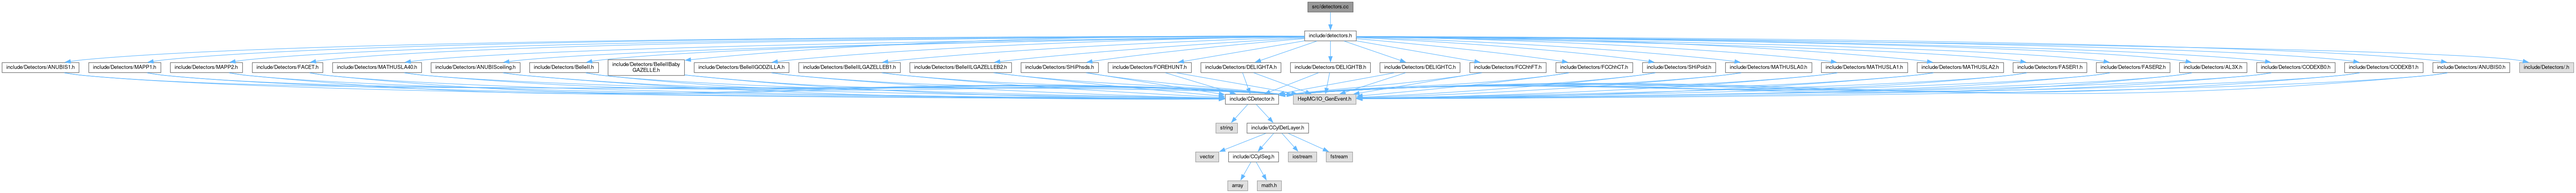
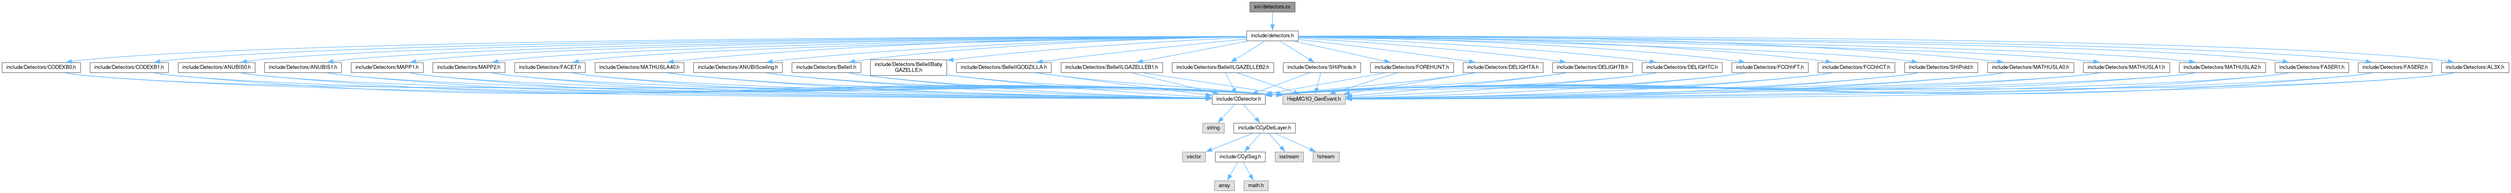
deploy: ba4ccefb03de5becfba3d83b99c959698ce254f5

diff --git a/d4/d73/detectors_8h.html b/d4/d73/detectors_8h.html
@@ -105,53 +105,51 @@ $(function() {
 <code>#include &quot;<a class="el" href="../../d4/d16/DELIGHTC_8h_source.html">include/Detectors/DELIGHTC.h</a>&quot;</code><br />
 <code>#include &quot;<a class="el" href="../../d9/dfc/FCChhFT_8h_source.html">include/Detectors/FCChhFT.h</a>&quot;</code><br />
 <code>#include &quot;<a class="el" href="../../d0/d53/FCChhCT_8h_source.html">include/Detectors/FCChhCT.h</a>&quot;</code><br />
-<code>#include &quot;include/Detectors/.h&quot;</code><br />
 <code>#include &quot;<a class="el" href="../../dd/dfa/SHiPold_8h_source.html">include/Detectors/SHiPold.h</a>&quot;</code><br />
 </div><div class="textblock"><div class="dynheader">
 Include dependency graph for detectors.h:</div>
 <div class="dyncontent">
 <div class="center"><img src="../../db/dbc/detectors_8h__incl.png" border="0" usemap="#ainclude_2detectors_8h" alt=""/></div>
 <map name="ainclude_2detectors_8h" id="ainclude_2detectors_8h">
-<area shape="rect" title=" " alt="" coords="3303,5,3433,31"/>
-<area shape="rect" href="../../d5/d5f/MATHUSLA0_8h.html" title=" " alt="" coords="4368,86,4587,111"/>
-<area shape="rect" href="../../d5/d10/MATHUSLA1_8h.html" title=" " alt="" coords="4611,86,4829,111"/>
-<area shape="rect" href="../../da/dab/MATHUSLA2_8h.html" title=" " alt="" coords="4853,86,5072,111"/>
-<area shape="rect" href="../../d7/d7a/FASER1_8h.html" title=" " alt="" coords="5096,86,5283,111"/>
-<area shape="rect" href="../../d3/d77/FASER2_8h.html" title=" " alt="" coords="5307,86,5493,111"/>
-<area shape="rect" href="../../d3/dc1/AL3X_8h.html" title=" " alt="" coords="5517,86,5688,111"/>
-<area shape="rect" href="../../df/d1c/CODEXB0_8h.html" title=" " alt="" coords="5713,86,5911,111"/>
-<area shape="rect" href="../../d2/d75/CODEXB1_8h.html" title=" " alt="" coords="5935,86,6134,111"/>
-<area shape="rect" href="../../dc/d24/ANUBIS0_8h.html" title=" " alt="" coords="6159,86,6353,111"/>
-<area shape="rect" href="../../d2/d51/ANUBIS1_8h.html" title=" " alt="" coords="5,86,200,111"/>
-<area shape="rect" href="../../d4/d05/MAPP1_8h.html" title=" " alt="" coords="225,86,407,111"/>
-<area shape="rect" href="../../db/d1e/MAPP2_8h.html" title=" " alt="" coords="431,86,614,111"/>
-<area shape="rect" href="../../da/d30/FACET_8h.html" title=" " alt="" coords="639,86,817,111"/>
-<area shape="rect" href="../../d4/dea/MATHUSLA40_8h.html" title=" " alt="" coords="842,86,1067,111"/>
-<area shape="rect" href="../../de/d76/ANUBISceiling_8h.html" title=" " alt="" coords="1091,86,1317,111"/>
-<area shape="rect" href="../../d1/dd7/BelleII_8h.html" title=" " alt="" coords="1341,86,1515,111"/>
-<area shape="rect" href="../../d3/d44/BelleIIBabyGAZELLE_8h.html" title=" " alt="" coords="1539,79,1733,119"/>
-<area shape="rect" href="../../dc/d60/BelleIIGODZILLA_8h.html" title=" " alt="" coords="1757,86,1997,111"/>
-<area shape="rect" href="../../de/d08/BelleIILGAZELLEB1_8h.html" title=" " alt="" coords="2022,86,2279,111"/>
-<area shape="rect" href="../../d0/d1a/BelleIILGAZELLEB2_8h.html" title=" " alt="" coords="2303,86,2561,111"/>
-<area shape="rect" href="../../d4/da5/SHiPhsds_8h.html" title=" " alt="" coords="2585,86,2781,111"/>
-<area shape="rect" href="../../da/d14/FOREHUNT_8h.html" title=" " alt="" coords="2805,86,3016,111"/>
-<area shape="rect" href="../../d2/d8a/DELIGHTA_8h.html" title=" " alt="" coords="3040,86,3243,111"/>
-<area shape="rect" href="../../d4/d30/DELIGHTB_8h.html" title=" " alt="" coords="3267,86,3469,111"/>
-<area shape="rect" href="../../d4/d16/DELIGHTC_8h.html" title=" " alt="" coords="3493,86,3696,111"/>
-<area shape="rect" href="../../d9/dfc/FCChhFT_8h.html" title=" " alt="" coords="3721,86,3914,111"/>
-<area shape="rect" href="../../d0/d53/FCChhCT_8h.html" title=" " alt="" coords="3939,86,4133,111"/>
-<area shape="rect" title=" " alt="" coords="6378,86,6515,111"/>
-<area shape="rect" href="../../dd/dfa/SHiPold_8h.html" title=" " alt="" coords="4158,86,4343,111"/>
-<area shape="rect" href="../../dc/d03/CDetector_8h.html" title=" " alt="" coords="3102,167,3237,192"/>
-<area shape="rect" title=" " alt="" coords="3274,167,3433,192"/>
-<area shape="rect" title=" " alt="" coords="3078,240,3133,265"/>
-<area shape="rect" href="../../d0/dcc/CCylDetLayer_8h.html" title=" " alt="" coords="3157,240,3313,265"/>
-<area shape="rect" title=" " alt="" coords="3027,313,3085,339"/>
-<area shape="rect" href="../../db/d5d/CCylSeg_8h.html" title=" " alt="" coords="3110,313,3237,339"/>
-<area shape="rect" title=" " alt="" coords="3261,313,3333,339"/>
-<area shape="rect" title=" " alt="" coords="3357,313,3424,339"/>
-<area shape="rect" title=" " alt="" coords="3108,387,3159,412"/>
-<area shape="rect" title=" " alt="" coords="3183,387,3244,412"/>
+<area shape="rect" title=" " alt="" coords="3157,5,3287,31"/>
+<area shape="rect" href="../../d5/d5f/MATHUSLA0_8h.html" title=" " alt="" coords="5033,86,5251,111"/>
+<area shape="rect" href="../../d5/d10/MATHUSLA1_8h.html" title=" " alt="" coords="5275,86,5494,111"/>
+<area shape="rect" href="../../da/dab/MATHUSLA2_8h.html" title=" " alt="" coords="5518,86,5737,111"/>
+<area shape="rect" href="../../d7/d7a/FASER1_8h.html" title=" " alt="" coords="5761,86,5947,111"/>
+<area shape="rect" href="../../d3/d77/FASER2_8h.html" title=" " alt="" coords="5971,86,6158,111"/>
+<area shape="rect" href="../../d3/dc1/AL3X_8h.html" title=" " alt="" coords="6182,86,6353,111"/>
+<area shape="rect" href="../../df/d1c/CODEXB0_8h.html" title=" " alt="" coords="5,86,204,111"/>
+<area shape="rect" href="../../d2/d75/CODEXB1_8h.html" title=" " alt="" coords="228,86,427,111"/>
+<area shape="rect" href="../../dc/d24/ANUBIS0_8h.html" title=" " alt="" coords="451,86,646,111"/>
+<area shape="rect" href="../../d2/d51/ANUBIS1_8h.html" title=" " alt="" coords="670,86,865,111"/>
+<area shape="rect" href="../../d4/d05/MAPP1_8h.html" title=" " alt="" coords="889,86,1072,111"/>
+<area shape="rect" href="../../db/d1e/MAPP2_8h.html" title=" " alt="" coords="1096,86,1279,111"/>
+<area shape="rect" href="../../da/d30/FACET_8h.html" title=" " alt="" coords="1303,86,1482,111"/>
+<area shape="rect" href="../../d4/dea/MATHUSLA40_8h.html" title=" " alt="" coords="1507,86,1732,111"/>
+<area shape="rect" href="../../de/d76/ANUBISceiling_8h.html" title=" " alt="" coords="1756,86,1981,111"/>
+<area shape="rect" href="../../d1/dd7/BelleII_8h.html" title=" " alt="" coords="2005,86,2180,111"/>
+<area shape="rect" href="../../d3/d44/BelleIIBabyGAZELLE_8h.html" title=" " alt="" coords="2204,79,2397,119"/>
+<area shape="rect" href="../../dc/d60/BelleIIGODZILLA_8h.html" title=" " alt="" coords="2422,86,2662,111"/>
+<area shape="rect" href="../../de/d08/BelleIILGAZELLEB1_8h.html" title=" " alt="" coords="2687,86,2944,111"/>
+<area shape="rect" href="../../d0/d1a/BelleIILGAZELLEB2_8h.html" title=" " alt="" coords="2968,86,3225,111"/>
+<area shape="rect" href="../../d4/da5/SHiPhsds_8h.html" title=" " alt="" coords="3249,86,3445,111"/>
+<area shape="rect" href="../../da/d14/FOREHUNT_8h.html" title=" " alt="" coords="3470,86,3681,111"/>
+<area shape="rect" href="../../d2/d8a/DELIGHTA_8h.html" title=" " alt="" coords="3705,86,3907,111"/>
+<area shape="rect" href="../../d4/d30/DELIGHTB_8h.html" title=" " alt="" coords="3931,86,4134,111"/>
+<area shape="rect" href="../../d4/d16/DELIGHTC_8h.html" title=" " alt="" coords="4158,86,4361,111"/>
+<area shape="rect" href="../../d9/dfc/FCChhFT_8h.html" title=" " alt="" coords="4385,86,4579,111"/>
+<area shape="rect" href="../../d0/d53/FCChhCT_8h.html" title=" " alt="" coords="4603,86,4798,111"/>
+<area shape="rect" href="../../dd/dfa/SHiPold_8h.html" title=" " alt="" coords="4823,86,5008,111"/>
+<area shape="rect" href="../../dc/d03/CDetector_8h.html" title=" " alt="" coords="3069,167,3204,192"/>
+<area shape="rect" title=" " alt="" coords="3248,167,3407,192"/>
+<area shape="rect" title=" " alt="" coords="3045,240,3100,265"/>
+<area shape="rect" href="../../d0/dcc/CCylDetLayer_8h.html" title=" " alt="" coords="3124,240,3280,265"/>
+<area shape="rect" title=" " alt="" coords="2994,313,3053,339"/>
+<area shape="rect" href="../../db/d5d/CCylSeg_8h.html" title=" " alt="" coords="3077,313,3204,339"/>
+<area shape="rect" title=" " alt="" coords="3229,313,3301,339"/>
+<area shape="rect" title=" " alt="" coords="3325,313,3391,339"/>
+<area shape="rect" title=" " alt="" coords="3075,387,3126,412"/>
+<area shape="rect" title=" " alt="" coords="3150,387,3211,412"/>
 </map>
 </div>
 </div><div class="textblock"><div class="dynheader">

diff --git a/d8/dcb/detectors_8cc.html b/d8/dcb/detectors_8cc.html
@@ -84,47 +84,46 @@ Include dependency graph for detectors.cc:</div>
 <div class="dyncontent">
 <div class="center"><img src="../../d1/d3e/detectors_8cc__incl.png" border="0" usemap="#asrc_2detectors_8cc" alt=""/></div>
 <map name="asrc_2detectors_8cc" id="asrc_2detectors_8cc">
-<area shape="rect" title=" " alt="" coords="3311,5,3425,31"/>
-<area shape="rect" href="../../d4/d73/detectors_8h.html" title=" " alt="" coords="3303,79,3433,104"/>
-<area shape="rect" href="../../d5/d5f/MATHUSLA0_8h.html" title=" " alt="" coords="4368,159,4587,185"/>
-<area shape="rect" href="../../d5/d10/MATHUSLA1_8h.html" title=" " alt="" coords="4611,159,4829,185"/>
-<area shape="rect" href="../../da/dab/MATHUSLA2_8h.html" title=" " alt="" coords="4853,159,5072,185"/>
-<area shape="rect" href="../../d7/d7a/FASER1_8h.html" title=" " alt="" coords="5096,159,5283,185"/>
-<area shape="rect" href="../../d3/d77/FASER2_8h.html" title=" " alt="" coords="5307,159,5493,185"/>
-<area shape="rect" href="../../d3/dc1/AL3X_8h.html" title=" " alt="" coords="5517,159,5688,185"/>
-<area shape="rect" href="../../df/d1c/CODEXB0_8h.html" title=" " alt="" coords="5713,159,5911,185"/>
-<area shape="rect" href="../../d2/d75/CODEXB1_8h.html" title=" " alt="" coords="5935,159,6134,185"/>
-<area shape="rect" href="../../dc/d24/ANUBIS0_8h.html" title=" " alt="" coords="6159,159,6353,185"/>
-<area shape="rect" href="../../d2/d51/ANUBIS1_8h.html" title=" " alt="" coords="5,159,200,185"/>
-<area shape="rect" href="../../d4/d05/MAPP1_8h.html" title=" " alt="" coords="225,159,407,185"/>
-<area shape="rect" href="../../db/d1e/MAPP2_8h.html" title=" " alt="" coords="431,159,614,185"/>
-<area shape="rect" href="../../da/d30/FACET_8h.html" title=" " alt="" coords="639,159,817,185"/>
-<area shape="rect" href="../../d4/dea/MATHUSLA40_8h.html" title=" " alt="" coords="842,159,1067,185"/>
-<area shape="rect" href="../../de/d76/ANUBISceiling_8h.html" title=" " alt="" coords="1091,159,1317,185"/>
-<area shape="rect" href="../../d1/dd7/BelleII_8h.html" title=" " alt="" coords="1341,159,1515,185"/>
-<area shape="rect" href="../../d3/d44/BelleIIBabyGAZELLE_8h.html" title=" " alt="" coords="1539,152,1733,192"/>
-<area shape="rect" href="../../dc/d60/BelleIIGODZILLA_8h.html" title=" " alt="" coords="1757,159,1997,185"/>
-<area shape="rect" href="../../de/d08/BelleIILGAZELLEB1_8h.html" title=" " alt="" coords="2022,159,2279,185"/>
-<area shape="rect" href="../../d0/d1a/BelleIILGAZELLEB2_8h.html" title=" " alt="" coords="2303,159,2561,185"/>
-<area shape="rect" href="../../d4/da5/SHiPhsds_8h.html" title=" " alt="" coords="2585,159,2781,185"/>
-<area shape="rect" href="../../da/d14/FOREHUNT_8h.html" title=" " alt="" coords="2805,159,3016,185"/>
-<area shape="rect" href="../../d2/d8a/DELIGHTA_8h.html" title=" " alt="" coords="3040,159,3243,185"/>
-<area shape="rect" href="../../d4/d30/DELIGHTB_8h.html" title=" " alt="" coords="3267,159,3469,185"/>
-<area shape="rect" href="../../d4/d16/DELIGHTC_8h.html" title=" " alt="" coords="3493,159,3696,185"/>
-<area shape="rect" href="../../d9/dfc/FCChhFT_8h.html" title=" " alt="" coords="3721,159,3914,185"/>
-<area shape="rect" href="../../d0/d53/FCChhCT_8h.html" title=" " alt="" coords="3939,159,4133,185"/>
-<area shape="rect" title=" " alt="" coords="6378,159,6515,185"/>
-<area shape="rect" href="../../dd/dfa/SHiPold_8h.html" title=" " alt="" coords="4158,159,4343,185"/>
-<area shape="rect" href="../../dc/d03/CDetector_8h.html" title=" " alt="" coords="3102,240,3237,265"/>
-<area shape="rect" title=" " alt="" coords="3274,240,3433,265"/>
-<area shape="rect" title=" " alt="" coords="3078,313,3133,339"/>
-<area shape="rect" href="../../d0/dcc/CCylDetLayer_8h.html" title=" " alt="" coords="3157,313,3313,339"/>
-<area shape="rect" title=" " alt="" coords="3027,387,3085,412"/>
-<area shape="rect" href="../../db/d5d/CCylSeg_8h.html" title=" " alt="" coords="3110,387,3237,412"/>
-<area shape="rect" title=" " alt="" coords="3261,387,3333,412"/>
-<area shape="rect" title=" " alt="" coords="3357,387,3424,412"/>
-<area shape="rect" title=" " alt="" coords="3108,460,3159,485"/>
-<area shape="rect" title=" " alt="" coords="3183,460,3244,485"/>
+<area shape="rect" title=" " alt="" coords="3165,5,3279,31"/>
+<area shape="rect" href="../../d4/d73/detectors_8h.html" title=" " alt="" coords="3157,79,3287,104"/>
+<area shape="rect" href="../../d5/d5f/MATHUSLA0_8h.html" title=" " alt="" coords="5033,159,5251,185"/>
+<area shape="rect" href="../../d5/d10/MATHUSLA1_8h.html" title=" " alt="" coords="5275,159,5494,185"/>
+<area shape="rect" href="../../da/dab/MATHUSLA2_8h.html" title=" " alt="" coords="5518,159,5737,185"/>
+<area shape="rect" href="../../d7/d7a/FASER1_8h.html" title=" " alt="" coords="5761,159,5947,185"/>
+<area shape="rect" href="../../d3/d77/FASER2_8h.html" title=" " alt="" coords="5971,159,6158,185"/>
+<area shape="rect" href="../../d3/dc1/AL3X_8h.html" title=" " alt="" coords="6182,159,6353,185"/>
+<area shape="rect" href="../../df/d1c/CODEXB0_8h.html" title=" " alt="" coords="5,159,204,185"/>
+<area shape="rect" href="../../d2/d75/CODEXB1_8h.html" title=" " alt="" coords="228,159,427,185"/>
+<area shape="rect" href="../../dc/d24/ANUBIS0_8h.html" title=" " alt="" coords="451,159,646,185"/>
+<area shape="rect" href="../../d2/d51/ANUBIS1_8h.html" title=" " alt="" coords="670,159,865,185"/>
+<area shape="rect" href="../../d4/d05/MAPP1_8h.html" title=" " alt="" coords="889,159,1072,185"/>
+<area shape="rect" href="../../db/d1e/MAPP2_8h.html" title=" " alt="" coords="1096,159,1279,185"/>
+<area shape="rect" href="../../da/d30/FACET_8h.html" title=" " alt="" coords="1303,159,1482,185"/>
+<area shape="rect" href="../../d4/dea/MATHUSLA40_8h.html" title=" " alt="" coords="1507,159,1732,185"/>
+<area shape="rect" href="../../de/d76/ANUBISceiling_8h.html" title=" " alt="" coords="1756,159,1981,185"/>
+<area shape="rect" href="../../d1/dd7/BelleII_8h.html" title=" " alt="" coords="2005,159,2180,185"/>
+<area shape="rect" href="../../d3/d44/BelleIIBabyGAZELLE_8h.html" title=" " alt="" coords="2204,152,2397,192"/>
+<area shape="rect" href="../../dc/d60/BelleIIGODZILLA_8h.html" title=" " alt="" coords="2422,159,2662,185"/>
+<area shape="rect" href="../../de/d08/BelleIILGAZELLEB1_8h.html" title=" " alt="" coords="2687,159,2944,185"/>
+<area shape="rect" href="../../d0/d1a/BelleIILGAZELLEB2_8h.html" title=" " alt="" coords="2968,159,3225,185"/>
+<area shape="rect" href="../../d4/da5/SHiPhsds_8h.html" title=" " alt="" coords="3249,159,3445,185"/>
+<area shape="rect" href="../../da/d14/FOREHUNT_8h.html" title=" " alt="" coords="3470,159,3681,185"/>
+<area shape="rect" href="../../d2/d8a/DELIGHTA_8h.html" title=" " alt="" coords="3705,159,3907,185"/>
+<area shape="rect" href="../../d4/d30/DELIGHTB_8h.html" title=" " alt="" coords="3931,159,4134,185"/>
+<area shape="rect" href="../../d4/d16/DELIGHTC_8h.html" title=" " alt="" coords="4158,159,4361,185"/>
+<area shape="rect" href="../../d9/dfc/FCChhFT_8h.html" title=" " alt="" coords="4385,159,4579,185"/>
+<area shape="rect" href="../../d0/d53/FCChhCT_8h.html" title=" " alt="" coords="4603,159,4798,185"/>
+<area shape="rect" href="../../dd/dfa/SHiPold_8h.html" title=" " alt="" coords="4823,159,5008,185"/>
+<area shape="rect" href="../../dc/d03/CDetector_8h.html" title=" " alt="" coords="3069,240,3204,265"/>
+<area shape="rect" title=" " alt="" coords="3248,240,3407,265"/>
+<area shape="rect" title=" " alt="" coords="3045,313,3100,339"/>
+<area shape="rect" href="../../d0/dcc/CCylDetLayer_8h.html" title=" " alt="" coords="3124,313,3280,339"/>
+<area shape="rect" title=" " alt="" coords="2994,387,3053,412"/>
+<area shape="rect" href="../../db/d5d/CCylSeg_8h.html" title=" " alt="" coords="3077,387,3204,412"/>
+<area shape="rect" title=" " alt="" coords="3229,387,3301,412"/>
+<area shape="rect" title=" " alt="" coords="3325,387,3391,412"/>
+<area shape="rect" title=" " alt="" coords="3075,460,3126,485"/>
+<area shape="rect" title=" " alt="" coords="3150,460,3211,485"/>
 </map>
 </div>
 </div><table class="memberdecls">

diff --git a/d4/d73/detectors_8h_source.html b/d4/d73/detectors_8h_source.html
@@ -106,14 +106,13 @@ $(function() {
 <div class="line"><a id="l00028" name="l00028"></a><span class="lineno">   28</span><span class="preprocessor">#include &quot;<a class="code" href="../../d4/d16/DELIGHTC_8h.html">include/Detectors/DELIGHTC.h</a>&quot;</span></div>
 <div class="line"><a id="l00029" name="l00029"></a><span class="lineno">   29</span><span class="preprocessor">#include &quot;<a class="code" href="../../d9/dfc/FCChhFT_8h.html">include/Detectors/FCChhFT.h</a>&quot;</span></div>
 <div class="line"><a id="l00030" name="l00030"></a><span class="lineno">   30</span><span class="preprocessor">#include &quot;<a class="code" href="../../d0/d53/FCChhCT_8h.html">include/Detectors/FCChhCT.h</a>&quot;</span></div>
-<div class="line"><a id="l00031" name="l00031"></a><span class="lineno">   31</span><span class="preprocessor">#include &quot;include/Detectors/.h&quot;</span></div>
-<div class="line"><a id="l00032" name="l00032"></a><span class="lineno">   32</span><span class="preprocessor">#include &quot;<a class="code" href="../../dd/dfa/SHiPold_8h.html">include/Detectors/SHiPold.h</a>&quot;</span></div>
-<div class="line"><a id="l00033" name="l00033"></a><span class="lineno">   33</span> </div>
-<div class="line"><a id="l00034" name="l00034"></a><span class="lineno">   34</span><span class="comment">// END OF INCLUDE DEFINITIONS</span></div>
-<div class="line"><a id="l00035" name="l00035"></a><span class="lineno">   35</span> </div>
-<div class="line"><a id="l00041" name="l00041"></a><span class="lineno">   41</span>std::vector&lt;Detector&gt; <a class="code hl_function" href="../../d4/d73/detectors_8h.html#ac21c642950e84e29d1915366677a78cb">CreateDetectors</a>(std::vector&lt;std::string&gt;);</div>
-<div class="line"><a id="l00042" name="l00042"></a><span class="lineno">   42</span> </div>
-<div class="line"><a id="l00043" name="l00043"></a><span class="lineno">   43</span><span class="preprocessor">#endif</span></div>
+<div class="line"><a id="l00031" name="l00031"></a><span class="lineno">   31</span><span class="preprocessor">#include &quot;<a class="code" href="../../dd/dfa/SHiPold_8h.html">include/Detectors/SHiPold.h</a>&quot;</span></div>
+<div class="line"><a id="l00032" name="l00032"></a><span class="lineno">   32</span> </div>
+<div class="line"><a id="l00033" name="l00033"></a><span class="lineno">   33</span><span class="comment">// END OF INCLUDE DEFINITIONS</span></div>
+<div class="line"><a id="l00034" name="l00034"></a><span class="lineno">   34</span> </div>
+<div class="line"><a id="l00040" name="l00040"></a><span class="lineno">   40</span>std::vector&lt;Detector&gt; <a class="code hl_function" href="../../d4/d73/detectors_8h.html#ac21c642950e84e29d1915366677a78cb">CreateDetectors</a>(std::vector&lt;std::string&gt;);</div>
+<div class="line"><a id="l00041" name="l00041"></a><span class="lineno">   41</span> </div>
+<div class="line"><a id="l00042" name="l00042"></a><span class="lineno">   42</span><span class="preprocessor">#endif</span></div>
 <div class="ttc" id="aAL3X_8h_html"><div class="ttname"><a href="../../d3/dc1/AL3X_8h.html">AL3X.h</a></div></div>
 <div class="ttc" id="aANUBIS0_8h_html"><div class="ttname"><a href="../../dc/d24/ANUBIS0_8h.html">ANUBIS0.h</a></div></div>
 <div class="ttc" id="aANUBIS1_8h_html"><div class="ttname"><a href="../../d2/d51/ANUBIS1_8h.html">ANUBIS1.h</a></div></div>
